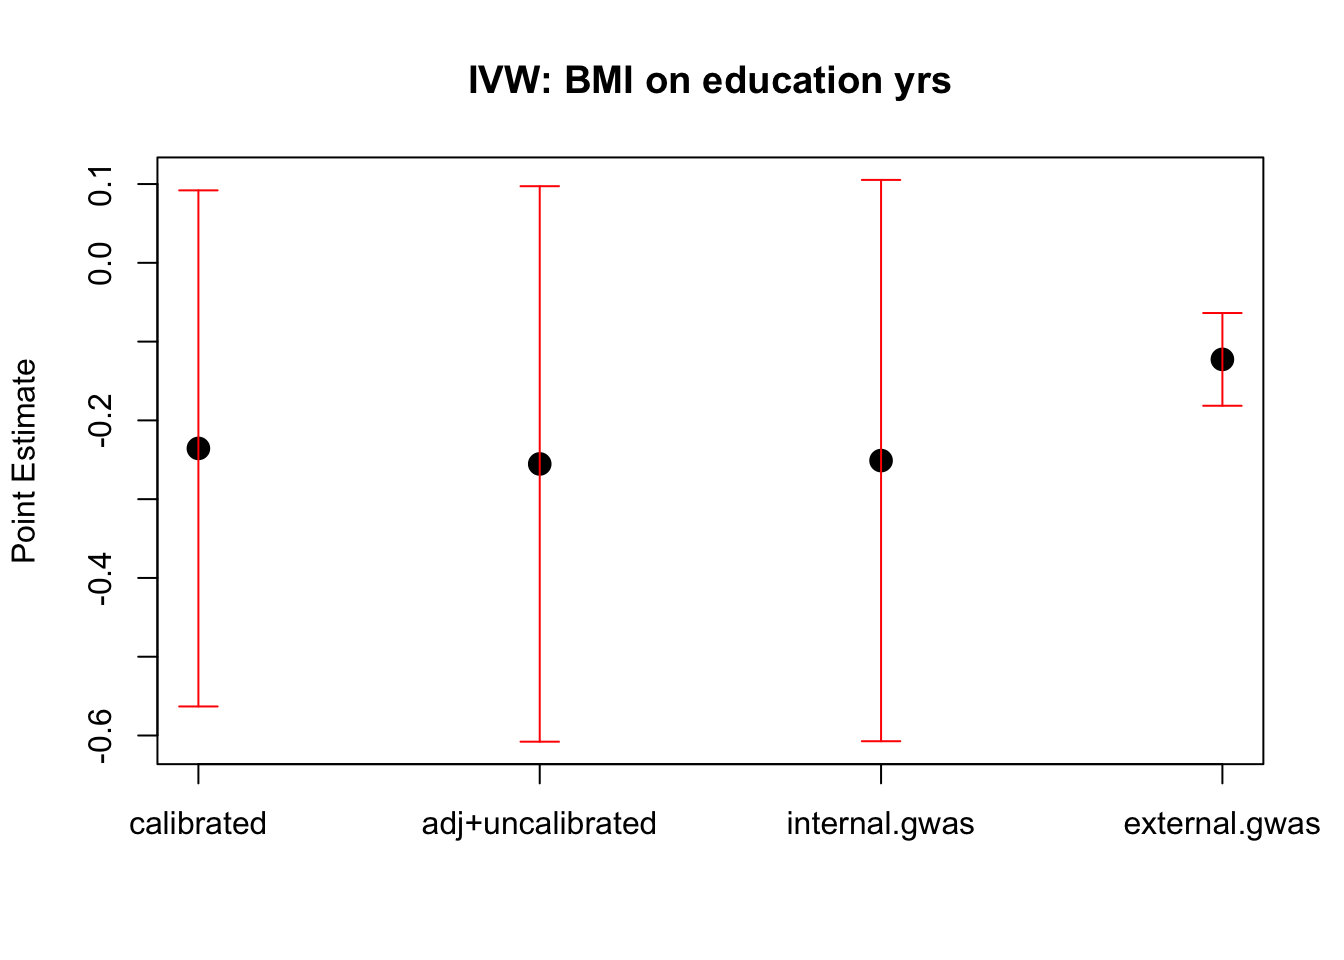
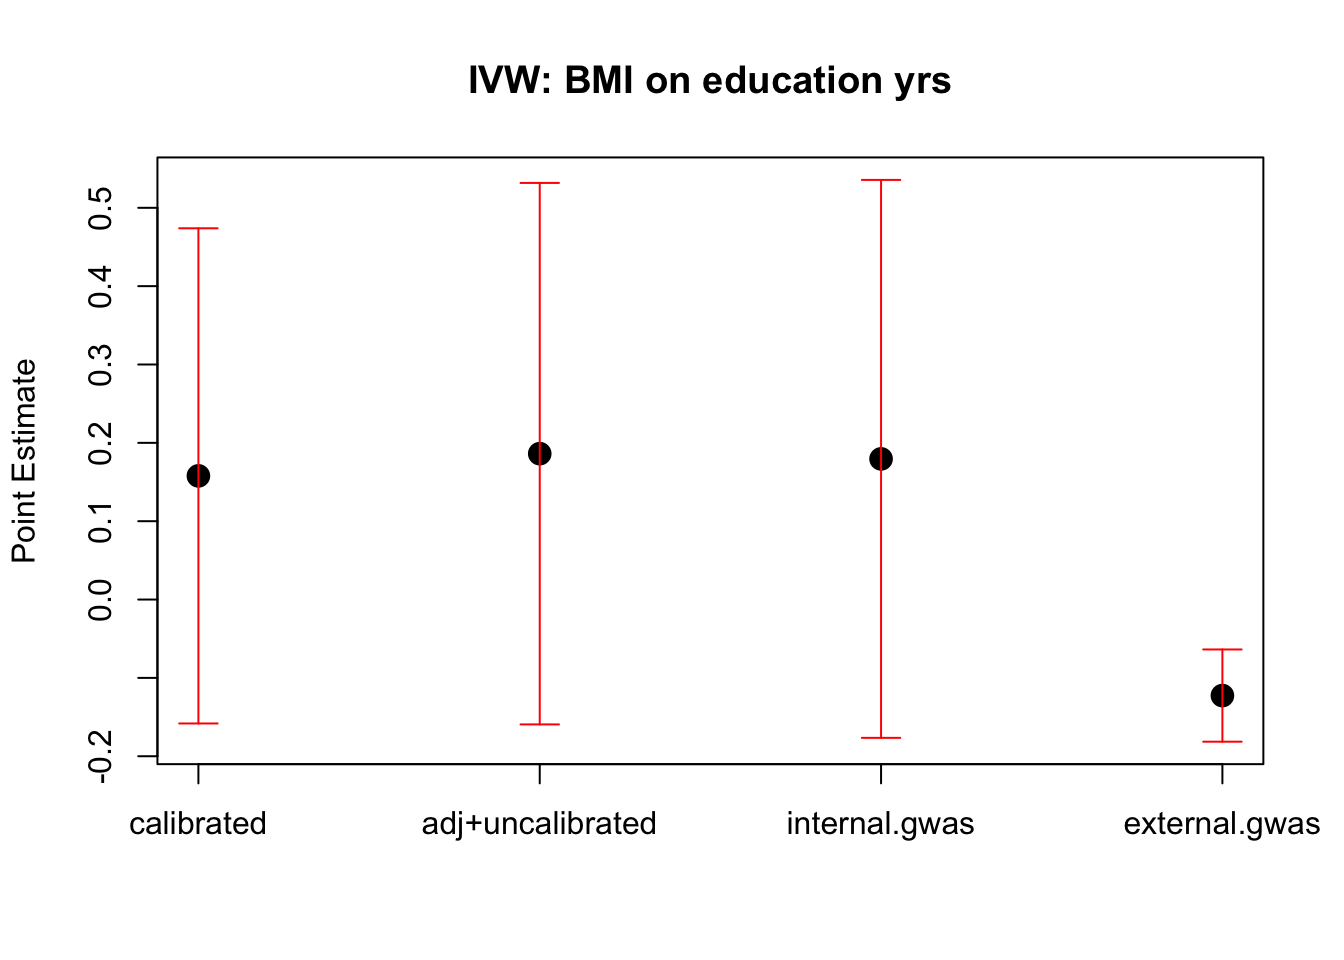
Build site.

diff --git a/docs/ukb_mr_trio.html b/docs/ukb_mr_trio.html
@@ -474,16 +474,16 @@ This reproducible <a href="http://rmarkdown.rstudio.com">R Markdown</a> analysis
 <div class="panel panel-default">
 <div class="panel-heading">
 <p class="panel-title">
-<a data-toggle="collapse" data-parent="#workflowr-checks" href="#strongRepositoryversionstrongahrefhttpsgithubcomyunqiyang0215simulationcalibratedmrtree43157aaeba0d1afaf15154adcb411d24f583dfcbtargetblank43157aaa"> <span class="glyphicon glyphicon-ok text-success" aria-hidden="true"></span> <strong>Repository version:</strong> <a href="https://github.com/yunqiyang0215/simulation-calibrated-mr/tree/43157aaeba0d1afaf15154adcb411d24f583dfcb" target="_blank">43157aa</a> </a>
+<a data-toggle="collapse" data-parent="#workflowr-checks" href="#strongRepositoryversionstrongahrefhttpsgithubcomyunqiyang0215simulationcalibratedmrtreef25014221d7c57c8238150096499990ab2a74056targetblankf250142a"> <span class="glyphicon glyphicon-ok text-success" aria-hidden="true"></span> <strong>Repository version:</strong> <a href="https://github.com/yunqiyang0215/simulation-calibrated-mr/tree/f25014221d7c57c8238150096499990ab2a74056" target="_blank">f250142</a> </a>
 </p>
 </div>
[2 lines of base64/hex data omitted]
 <div class="panel-body">
 <p>
 Great! You are using Git for version control. Tracking code development and connecting the code version to the results is critical for reproducibility.
 </p>
 <p>
-The results in this page were generated with repository version <a href="https://github.com/yunqiyang0215/simulation-calibrated-mr/tree/43157aaeba0d1afaf15154adcb411d24f583dfcb" target="_blank">43157aa</a>. See the <em>Past versions</em> tab to see a history of the changes made to the R Markdown and HTML files.
+The results in this page were generated with repository version <a href="https://github.com/yunqiyang0215/simulation-calibrated-mr/tree/f25014221d7c57c8238150096499990ab2a74056" target="_blank">f250142</a>. See the <em>Past versions</em> tab to see a history of the changes made to the R Markdown and HTML files.
 </p>
 <p>
 Note that you need to be careful to ensure that all relevant files for the analysis have been committed to Git prior to generating the results (you can use <code>wflow_publish</code> or <code>wflow_git_commit</code>). workflowr only checks the R Markdown file, but you know if there are other scripts or data files that it depends on. Below is the status of the Git repository when the results were generated:
@@ -493,9 +493,6 @@ Ignored files:
     Ignored:    .DS_Store
     Ignored:    .Rhistory
     Ignored:    .Rproj.user/
-
-Unstaged changes:
-    Modified:   analysis/ukb_mr_sibling.Rmd
 
 </code></pre>
 <p>
@@ -534,6 +531,23 @@ Message
 </tr>
 </thead>
 <tbody>
+<tr>
+<td>
+html
+</td>
+<td>
+<a href="https://rawcdn.githack.com/yunqiyang0215/simulation-calibrated-mr/8f2d948fffbd7be96eb65851d13f1a12d4e2259d/docs/ukb_mr_trio.html" target="_blank">8f2d948</a>
+</td>
+<td>
+yunqiyang0215
+</td>
+<td>
+2024-05-23
+</td>
+<td>
+Build site.
+</td>
+</tr>
 <tr>
 <td>
 Rmd
@@ -806,6 +820,17 @@ Date
 <tbody>
 <tr>
 <td>
+<a href="https://github.com/yunqiyang0215/simulation-calibrated-mr/blob/8f2d948fffbd7be96eb65851d13f1a12d4e2259d/docs/figure/ukb_mr_trio.Rmd/unnamed-chunk-8-1.png" target="_blank">8f2d948</a>
+</td>
+<td>
+yunqiyang0215
+</td>
+<td>
+2024-05-23
+</td>
+</tr>
+<tr>
+<td>
 <a href="https://github.com/yunqiyang0215/simulation-calibrated-mr/blob/e116791a9eca78c94f0c181cb58e18524e946d60/docs/figure/ukb_mr_trio.Rmd/unnamed-chunk-8-1.png" target="_blank">e116791</a>
 </td>
 <td>
@@ -885,6 +910,17 @@ Date
 </tr>
 </thead>
 <tbody>
+<tr>
+<td>
+<a href="https://github.com/yunqiyang0215/simulation-calibrated-mr/blob/8f2d948fffbd7be96eb65851d13f1a12d4e2259d/docs/figure/ukb_mr_trio.Rmd/unnamed-chunk-11-1.png" target="_blank">8f2d948</a>
+</td>
+<td>
+yunqiyang0215
+</td>
+<td>
+2024-05-23
+</td>
+</tr>
 <tr>
 <td>
 <a href="https://github.com/yunqiyang0215/simulation-calibrated-mr/blob/e116791a9eca78c94f0c181cb58e18524e946d60/docs/figure/ukb_mr_trio.Rmd/unnamed-chunk-11-1.png" target="_blank">e116791</a>
@@ -967,8 +1003,8 @@ mr = mr_ivw(MRInput)
 res.mr[, 4] = c(mr@Estimate, mr@StdError)</code></pre>
 <pre class="r"><code>res.mr</code></pre>
 <pre><code>          calibrated adj+uncalibrated internal.gwas external.gwas
-point.est -0.2355757       -0.2552951    -0.2510062   -0.12257214
-std        0.1671232        0.1798769     0.1817636    0.03002803</code></pre>
+point.est  0.1578513        0.1861965     0.1795380   -0.12257214
+std        0.1612316        0.1763099     0.1816681    0.03002803</code></pre>
 <pre class="r"><code>labels &lt;- c(&#39;calibrated&#39;, &#39;adj+uncalibrated&#39;, &#39;internal.gwas&#39;, &#39;external.gwas&#39;)
 point_est &lt;- res.mr[1, ]
 error_bars &lt;- 1.96 * res.mr[2, ]
@@ -1001,6 +1037,17 @@ Date
 </tr>
 </thead>
 <tbody>
+<tr>
+<td>
+<a href="https://github.com/yunqiyang0215/simulation-calibrated-mr/blob/8f2d948fffbd7be96eb65851d13f1a12d4e2259d/docs/figure/ukb_mr_trio.Rmd/unnamed-chunk-17-1.png" target="_blank">8f2d948</a>
+</td>
+<td>
+yunqiyang0215
+</td>
+<td>
+2024-05-23
+</td>
+</tr>
 <tr>
 <td>
 <a href="https://github.com/yunqiyang0215/simulation-calibrated-mr/blob/e116791a9eca78c94f0c181cb58e18524e946d60/docs/figure/ukb_mr_trio.Rmd/unnamed-chunk-17-1.png" target="_blank">e116791</a>
@@ -1058,8 +1105,9 @@ stderr = mr$beta.se
 res.mr[, 2] = c(point_est, stderr)
 
 # internal gwas
-mr = mr.raps.mle(dat1$int, dat2$int, sqrt(dat1$int.var), sqrt(dat2$int.var))
-point_est = mr$beta.hat
+mr = mr.raps.mle(dat1$int, dat2$int, sqrt(dat1$int.var), sqrt(dat2$int.var))</code></pre>
+<pre><code>Warning in sqrt(1/I): NaNs produced</code></pre>
+<pre class="r"><code>point_est = mr$beta.hat
 stderr = mr$beta.se
 res.mr[, 3] = c(point_est, stderr)
 
@@ -1070,8 +1118,8 @@ stderr = mr$beta.se
 res.mr[, 4] = c(point_est, stderr)</code></pre>
 <pre class="r"><code>res.mr</code></pre>
 <pre><code>          calibrated adj+uncalibrated internal.gwas external.gwas
-point.est -1.0399340        -1.386255     -1.418790   -0.13014622
-std        0.7189622         1.900979      5.854295    0.01470978</code></pre>
+point.est  0.6309279        0.8414236     0.7521352   -0.13014622
+std        0.7262000       15.9935662     2.0876840    0.01470978</code></pre>
 <pre class="r"><code>labels &lt;- c(&#39;calibrated&#39;, &#39;adj+uncalibrated&#39;, &#39;internal.gwas&#39;, &#39;external.gwas&#39;)
 point_est &lt;- res.mr[1, ]
 error_bars &lt;- 1.96 * res.mr[2, ]
@@ -1104,6 +1152,17 @@ Date
 </tr>
 </thead>
 <tbody>
+<tr>
+<td>
+<a href="https://github.com/yunqiyang0215/simulation-calibrated-mr/blob/8f2d948fffbd7be96eb65851d13f1a12d4e2259d/docs/figure/ukb_mr_trio.Rmd/unnamed-chunk-20-1.png" target="_blank">8f2d948</a>
+</td>
+<td>
+yunqiyang0215
+</td>
+<td>
+2024-05-23
+</td>
+</tr>
 <tr>
 <td>
 <a href="https://github.com/yunqiyang0215/simulation-calibrated-mr/blob/e116791a9eca78c94f0c181cb58e18524e946d60/docs/figure/ukb_mr_trio.Rmd/unnamed-chunk-20-1.png" target="_blank">e116791</a>
